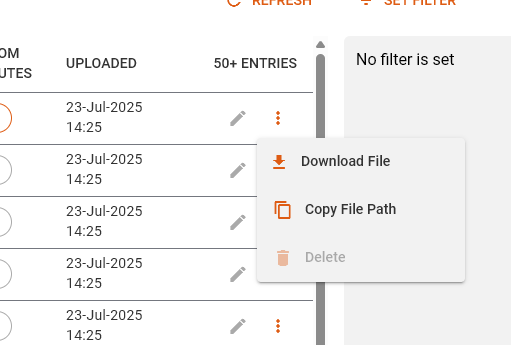
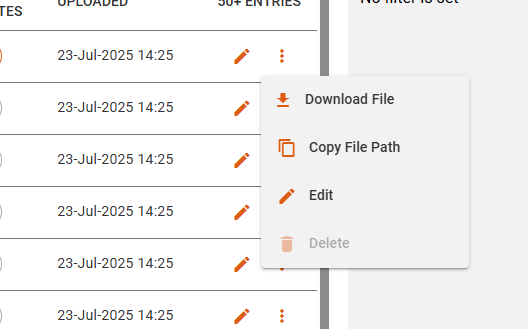
feat(studio): review file catalog docs

diff --git a/docs/studio-catalog.md b/docs/studio-catalog.md
@@ -147,41 +147,43 @@ twinsphere tenant's repository and delete the draft afterward.
 
 ## Catalog of Files
 
-In this catalog all *files* of the twinsphere are displayed. The classification value is displayed according to the
-[Handover Documentation Submodel](https://industrialdigitaltwin.io/idta-submodel-templates/Handover%20Documentation/v2.0/index.html#_annex_b_how_does_the_submodel_handover_documentation_relates_to_the_submodel_intelligent_information_for_use).
-Values that are not in this list will be displayed as *invalid* and empty values display *"-"*.
-Filesize is shown as kilo byte value until it reaches 0.1 mega byte
-then the MB unit is used up to the maximum size of 100 MB.
+This catalog lists all *files* of [twinsphere's file repository](cloud-documentation.md#file-repository).
+
+The classification value is displayed according to
+VDI 2770 Blatt 1: 2020, see respective table at [Handover Documentation Submodel](https://industrialdigitaltwin.io/idta-submodel-templates/Handover%20Documentation/v2.0/index.html#_annex_b_how_does_the_submodel_handover_documentation_relates_to_the_submodel_intelligent_information_for_use).
+Values that are not in this list will be displayed as *invalid* and empty values are represented by a dash (*-*).
+
+The file size is given in kilo bytes for values below 100 kB and in mega bytes if larger.
 
 ![File Catalog](img/twinstudio_catalog_file_overview.png){:width='1000'}
 
-The custom attributes column displays the count of attributes. If this is greater than 0 it gets clickable and
-a dialog that displays all custom attributes is shown.
+The custom attributes column displays the amount of configured attributes. If greater than 0 it gets clickable. A popup
+dialog shows the keys and values of all custom attributes. An *edit* button enables you to directly edit them.
 
 ![Custom Attributes](img/twinstudio_catalog_file_customattributes.png){:width='400'}
 
-Each file has a menu with the following actions:
-*download*, *copy file path* and in future iterations the option to *delete*.
+Each file has a more menu (represented by three vertical dots) offering the following actions:
+*Download File*, *Copy File Path*, *Edit Properties* and in future iterations the option to *Delete*.
 
 ![File Actions](img/twinstudio_catalog_file_actions.png){:width='400'}
 
-*Set Filter* opens a dialog which allows to filter the file list.
-The *Display Name* and *File Name* filter check for the inclusion of text ignoring casing.
+*Set Filter* opens a dialog which allows to filter the file list.  
+The *Display Name* and *File Name* filter check for the inclusion of text ignoring casing.  
 The two date selects are for start and end date.
-Start date the time 00:00:00 will be added and to the end date 23:59:59.
-Added attributes will be matched exactly.
+Start date the time 00:00:00 will be added and to the end date 23:59:59.  
+Added custom attributes will be matched exactly.
 If either a key or a value is empty this pair will be ignored for filtering the files.
 
 ![Filterdialog](img/twinstudio_catalog_file_filterdialog.png){:width='600'}
 
 ### Edit File Properties
 
-To edit the properties of a file, you can click on the pencil icon or on the “Edit” entry in the menu.
+To edit the properties of a file, you can click on the pencil icon or on the "Edit Properties" entry in the menu.
 
 ![FilePropertiesEditButton](img/twinstudio_catalog_file_edit_buttons.png){:width='600'}
 
 You can change the display name and classification of the file. You can also store user-defined attributes for a file.
-An attribute consists of a key and a value, which must not be longer than 2048 characters.
+An attribute consists of a key and a value, which both must not be longer than 2048 characters.
 A key must be unique in the list of attributes.
 
 ![FilePropertiesEditDialog](img/twinstudio_catalog_file_edit_properties_dialog.png){:width='600'}
